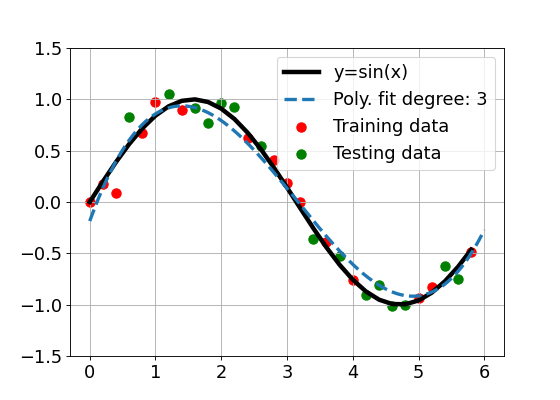
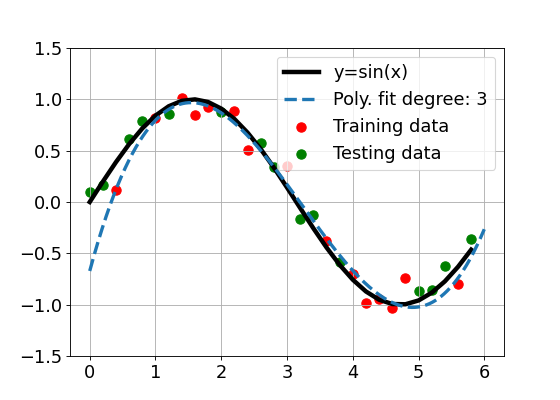
added traintraining vs testing plot

Changed region(s): [[0.425, 0.33, 0.8804, 0.78], [0.1518, 0.21, 0.425, 0.69]]

diff --git a/ml_example.py b/ml_example.py
@@ -4,6 +4,9 @@ from matplotlib.pyplot import figure
 import numpy as np
 import random
 
+def mse(A,B):
+    return ((A-B) ** 2).mean(axis=None)
+
 if __name__ == "__main__":
     print("ML example")
     # set font size
@@ -53,7 +56,7 @@ if __name__ == "__main__":
     # get training data
     x,y = zip(*tr_data)
     model_line = np.arange(0,6,0.001)
-
+    
     # make error function plot
     figure(num=None, figsize=(7, 5), dpi=80, facecolor='w', edgecolor='k')
     plt.title("")
@@ -63,6 +66,7 @@ if __name__ == "__main__":
     plt.grid(True)
     plt.ylim([-1.5, 1.5])
 
+    # get testing data
     x_ts,y_ts = zip(*ts_data)
     
     model = np.poly1d(np.polyfit(x,y,1)) 
@@ -71,7 +75,9 @@ if __name__ == "__main__":
     
     plt.legend(["Model", "Testing data"])
     plt.savefig('figures/ML/error_function.png')
-
+    
+    mses_tr = []
+    mses_ts = []
     for i in range(1,10):
         figure(num=None, figsize=(7, 5), dpi=80, facecolor='w', edgecolor='k')
         plt.title("")
@@ -89,3 +95,30 @@ if __name__ == "__main__":
         
         plt.legend(["y=sin(x)", "Poly. fit degree: " + str(i),"Training data", "Testing data"])
         plt.savefig('figures/ML/degree'+str(i)+'.png')
+
+        # calculate training errors
+        tr_pred = model(x)
+        ts_pred = model(x_ts)
+        mses_tr.append(mse(tr_pred, y))
+        mses_ts.append(mse(ts_pred, y_ts))
+
+    # plot training and testing errors
+    figure(num=None, figsize=(8, 5.5), dpi=80, facecolor='w', edgecolor='k')
+    plt.title("")
+    plt.xlabel("Polynomial degree, M")
+    plt.ylabel("MSE")
+    #plt.xscale('log')
+    plt.grid(True)
+    degrees = np.arange(1,10,1)
+    
+    print('mses_tr', mses_tr)
+    print('mses_ts', mses_ts)
+    
+    plt.plot(degrees, mses_tr, linewidth=3)
+    plt.scatter(degrees, mses_tr)
+    plt.plot(degrees, mses_ts, linewidth=3)
+    plt.scatter(degrees, mses_ts)
+    
+    plt.legend(["Training errors", "Testing errors"])
+    plt.savefig('figures/ML/training_vs_testing.png')
+    
